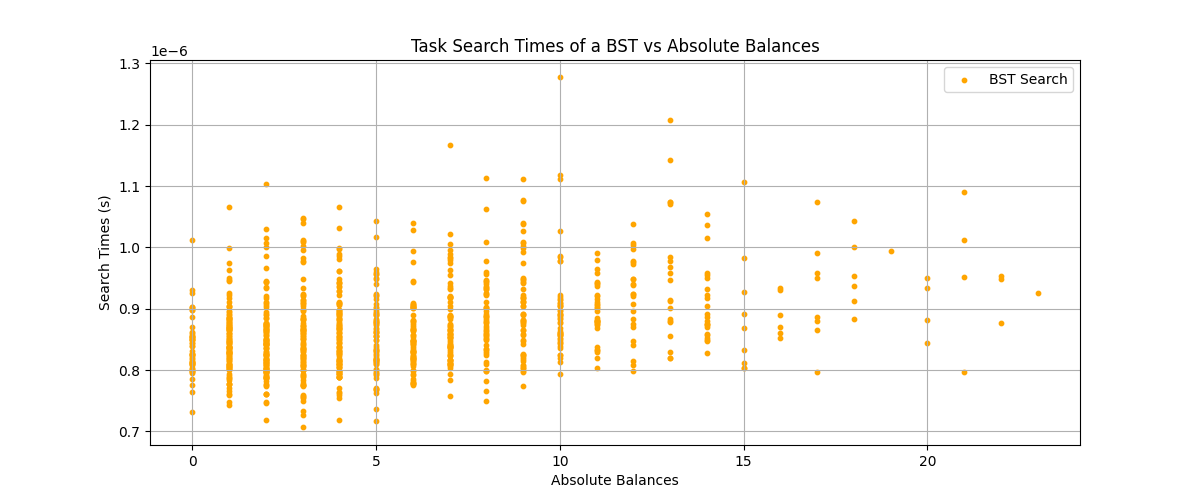
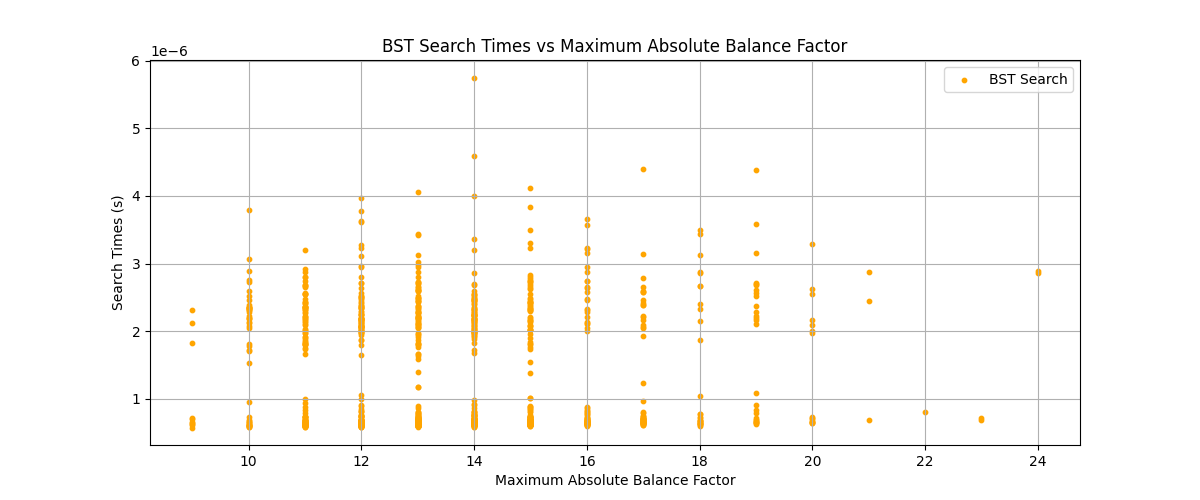
Fixed ex1 balance factor calculations

diff --git a/ex1.py b/ex1.py
@@ -2,7 +2,6 @@ import random
 import timeit
 import matplotlib.pyplot as plt
 
-# Define the Node class for the BST
 class Node:
     def __init__(self, data, parent=None, left=None, right=None):
         self.data = data
@@ -10,28 +9,24 @@ class Node:
         self.left = left
         self.right = right
 
-
-# Function to insert a node into the BST
 def insert(data, root=None):
     current = root
     parent = None
-
     while current is not None:
         parent = current
         if data <= current.data:
             current = current.left
         else:
             current = current.right
-
+    
     if root is None:
         root = Node(data)
     elif data <= parent.data:
         parent.left = Node(data, parent)
     else:
         parent.right = Node(data, parent)
+    return root
 
-
-# Function to search for a value in the BST
 def search(root, data):
     current = root
     while current is not None:
@@ -47,15 +42,30 @@ def height(node):
     # Base case: Height of empty tree is -1
     if node is None:
         return -1
-
     # Height = 1 + max of left height and right heights
     return 1 + max(height(node.left), height(node.right))
 
 def balance_factor(node):
+    if node is None:
+        return 0
     left_height = height(node.left)
     right_height = height(node.right)
-
     return left_height - right_height
+
+# Function to find the maximum absolute balance factor in the entire tree. Helped by Claude
+def max_balance_factor(root):
+    if root is None:
+        return 0
+    
+    # Compute balance factor for current node
+    current_balance = abs(balance_factor(root))
+    
+    # Recursively find the maximum balance factor in left and right subtrees
+    left_max = max_balance_factor(root.left)
+    right_max = max_balance_factor(root.right)
+    
+    # Return the maximum of all three values
+    return max(current_balance, left_max, right_max)
 
 # Function to build a BST from a list of elements
 def build_bst(elements):
@@ -64,38 +74,35 @@ def build_bst(elements):
         if root is None:
             root = Node(el)
         else:
-            insert(el, root)
+            root = insert(el, root)
     return root
 
 numbers = list(range(0, 1000))
-
 avgTimes = []
 largestBalanceVals = []
+
 for i in range(0, 1000):
-    # 1000 shuffled lists
+    # Shuffled lists
     random.shuffle(numbers)
     tree = build_bst(numbers)
-
+    
     listTimes = []
-    maxBalanceVal = -1
-    for j in range(0, 1000):
+    # Find max balance factor across all nodes in the tree
+    maxBalanceVal = max_balance_factor(tree)
+    
+    for j in range(0, 1000): 
         # Run for each task in each list
-        timed = timeit.timeit(lambda: search(tree, numbers[j]), number=10) / 10
+        timed = timeit.timeit(lambda: search(tree, numbers[j]), number=2) / 2
         listTimes.append(timed)
-        
-        balFactor = abs(balance_factor(tree))
-        if maxBalanceVal < balFactor:
-            maxBalanceVal = balFactor
-
+    
     avgTimes.append(sum(listTimes) / len(listTimes))
-    largestBalanceVals.append(balFactor)
+    largestBalanceVals.append(maxBalanceVal)
 
 plt.figure(figsize=(12, 5))
 plt.scatter(largestBalanceVals, avgTimes, s=10, label="BST Search", color="orange")
-plt.xlabel("Absolute Balances")
+plt.xlabel("Maximum Absolute Balance Factor")
 plt.ylabel("Search Times (s)")
-plt.title("Task Search Times of a BST vs Absolute Balances")
+plt.title("BST Search Times vs Maximum Absolute Balance Factor")
 plt.legend()
 plt.grid()
-
 plt.show()
